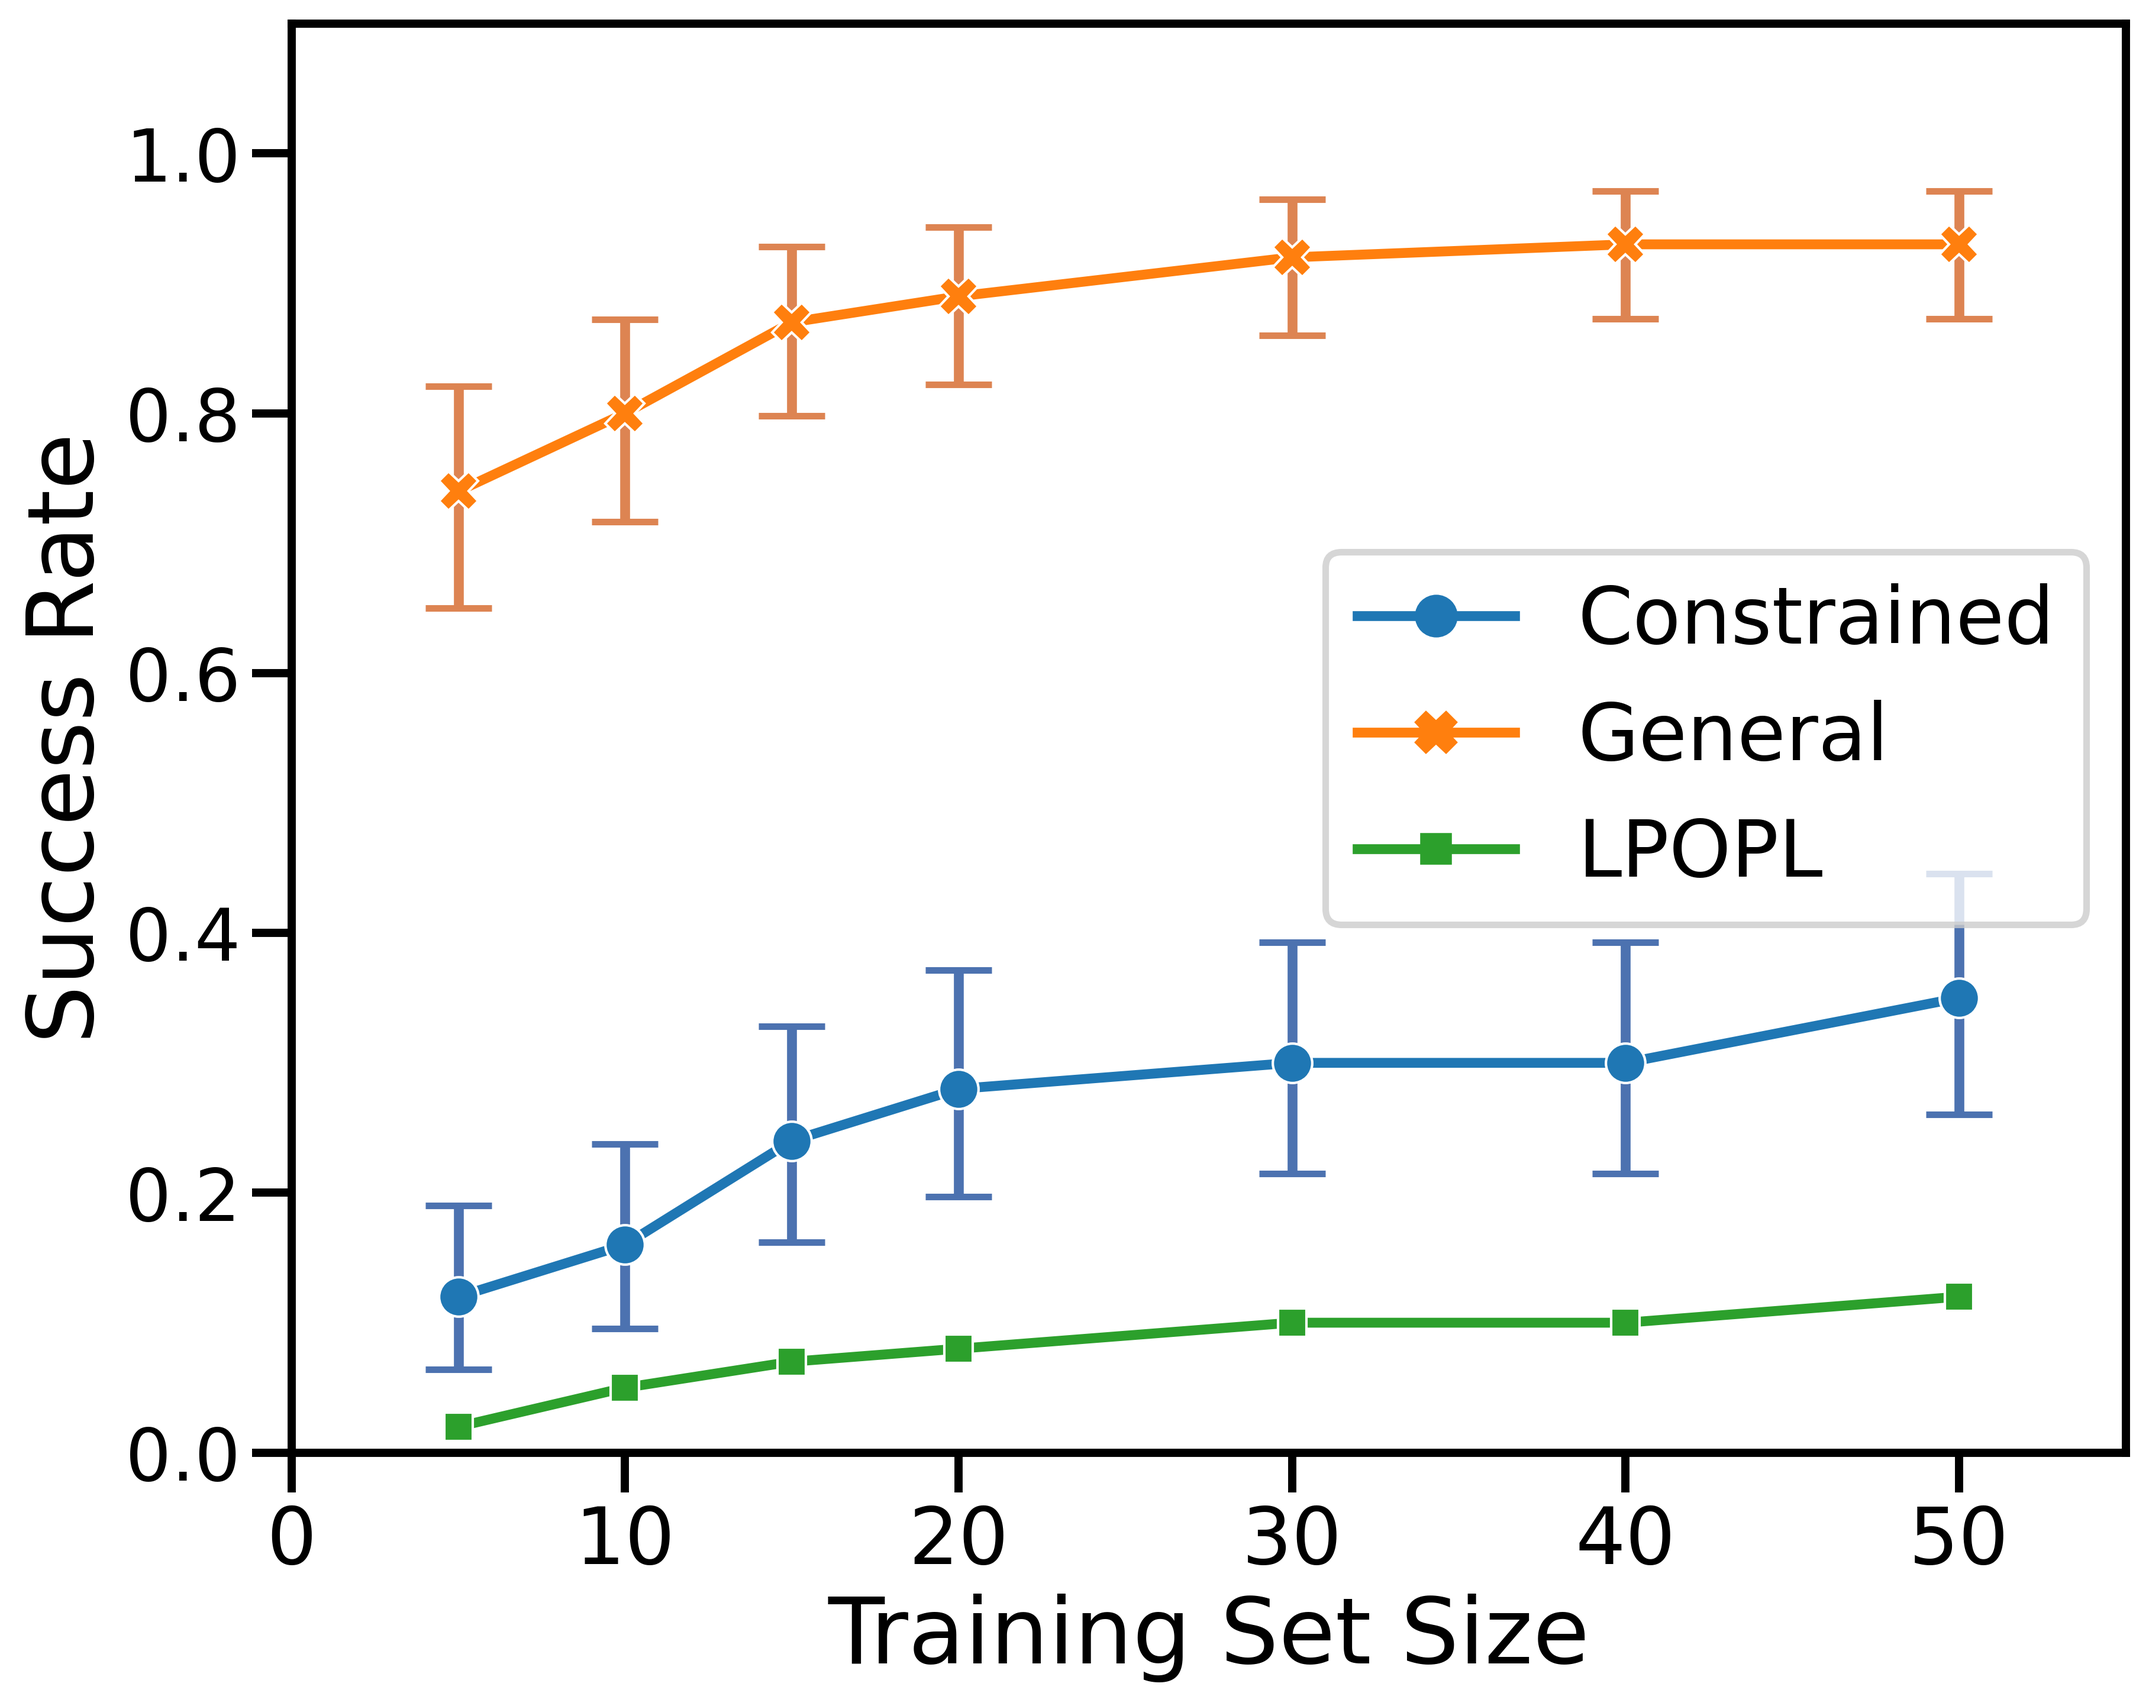
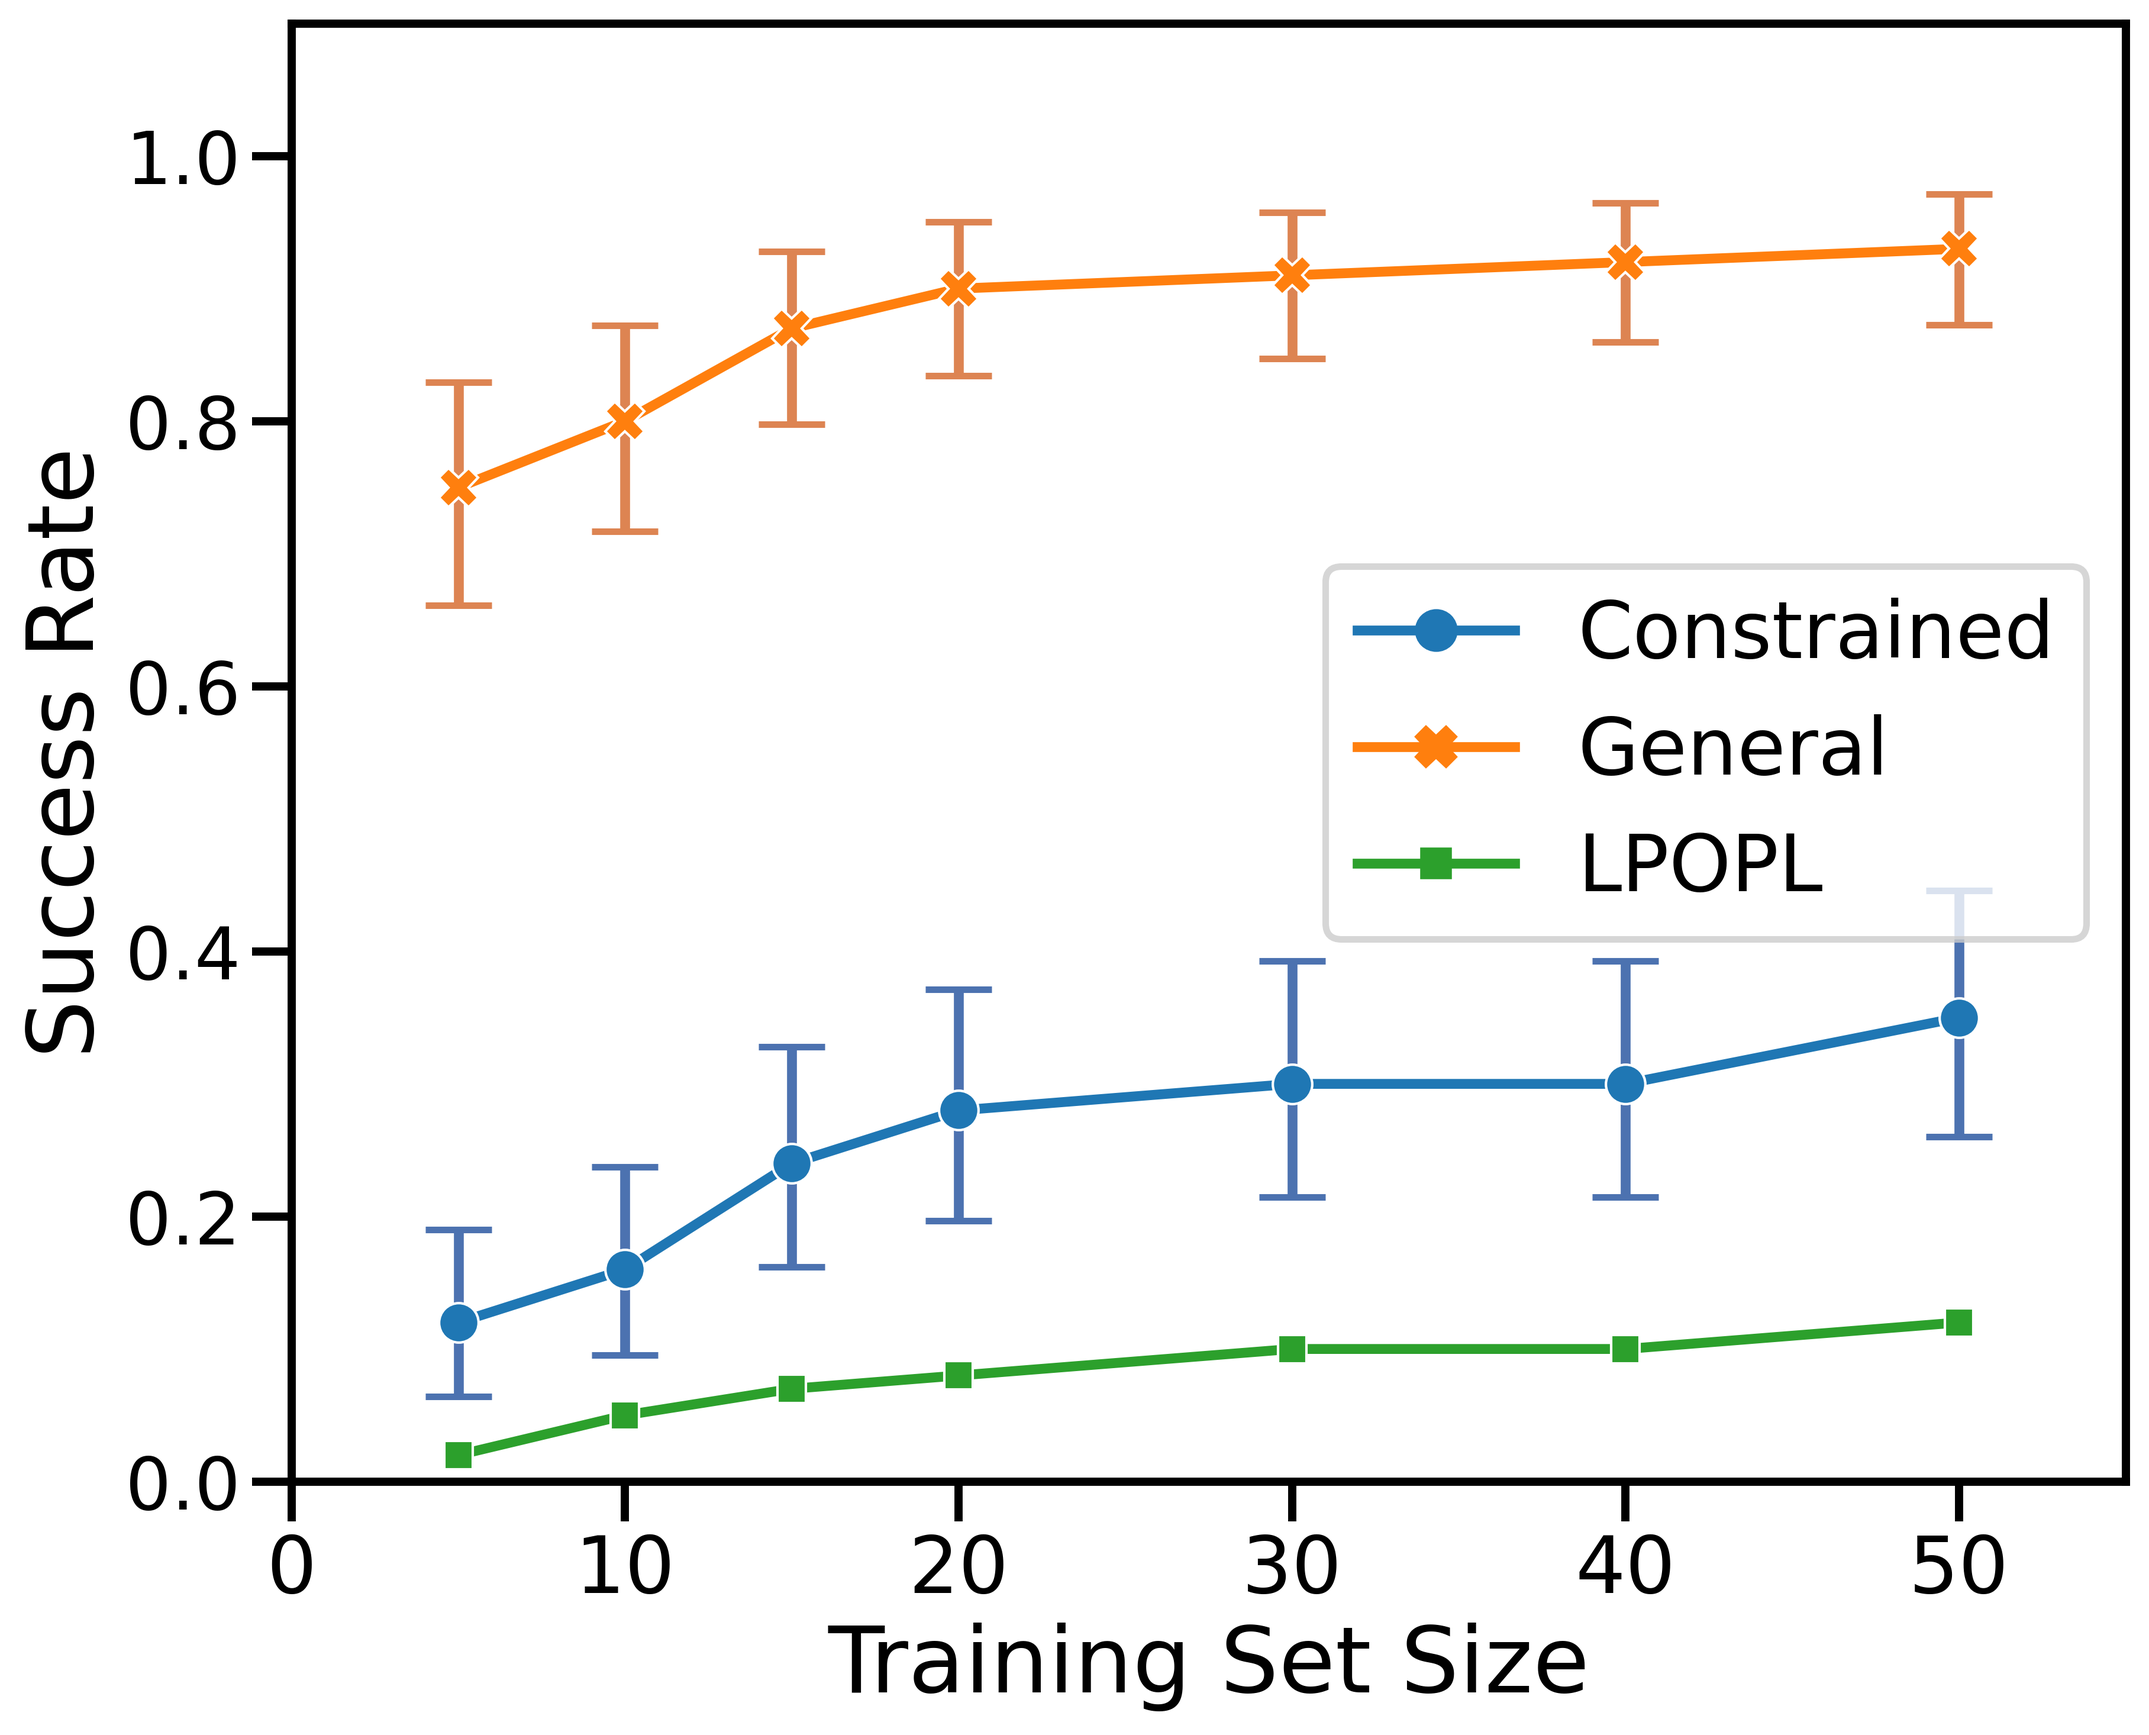
random results analysis

diff --git a/src/random_results_analyzer.py b/src/random_results_analyzer.py
@@ -11,7 +11,7 @@ import pandas as pd
 
 TEST_TYPES = ['hard','soft','soft_strict','no_orders','mixed']
 
-def get_random_results(test_types=TEST_TYPES, num_steps = [500], map_ids = [0,1,5,6]):
+def get_random_results(test_types=TEST_TYPES, num_steps = [500, 1000], map_ids = [0,1,5,6]):
     results = {}
     for test_type in test_types:
         for nsteps in num_steps:
@@ -19,12 +19,12 @@ def get_random_results(test_types=TEST_TYPES, num_steps = [500], map_ids = [0,1,
                 results[(test_type, nsteps, map_id)] = RandomRecord(test_type = test_type, nsteps = nsteps, map_id = map_id)
     return results
 
-def get_mixed_50_results():
-    return get_results(train_types = ['mixed'], test_types = TEST_TYPES, train_sizes=[50], map_ids = [0,1,5,6])
+def get_mixed_50_results(test_types = TEST_TYPES, train_sizes = [50], map_ids = [0,1,5,6]):
+    return get_results(train_types = ['mixed'], test_types = test_types, train_sizes=train_sizes, map_ids = map_ids)
 
-def create_data_table():
-    random_results = get_random_results()
-    mixed_results = get_mixed_50_results()
+def create_data_table(random_results, mixed_results):
+    #random_results = get_random_results()
+    #mixed_results = get_mixed_50_results()
     
     data = {}
     i=0
@@ -35,23 +35,58 @@ def create_data_table():
         entry['Test Type'] = k[0]
         entry['Map ID'] = k[2]
         entry['Success Rate'] = np.mean(random_results[k].success)
+        entry['Path Lengths'] = random_results[k].mean_successful_path_length
+        entry['Specification Violation Rate'] = random_results[k].specification_failure_rate
         data[i] = entry
         i = i+1
     for k in mixed_results:
         entry = {}
-        entry['Transfer Method'] = f'LTL Transfer {k[3]}'
+        edge_match = 'Constrained' if k[3] == 'rigid' else 'Relaxed'
+        entry['Transfer Method'] = f'LTL Transfer {edge_match}'
         entry['Test Type'] = k[2]
         entry['Map ID'] = k[4]
         entry['Success Rate']  = np.mean(mixed_results[k].success)
+        entry['Path Lengths'] = mixed_results[k].mean_successful_path_length
+        entry['Specification Violation Rate'] = 0
         data[i] = entry
         i = i+1
     
     data = pd.DataFrame.from_dict(data, orient = 'index')
     return data        
+
+def plot_random_success_rate():
+    random_results = get_random_results()
+    mixed_results = get_mixed_50_results(map_ids = [0])
+    data = create_data_table(random_results, mixed_results)
+    with sns.plotting_context('poster', rc=rc):
+        plt.figure(figsize = [12,8])
+        sns.barplot(data = data, x = 'Test Type', y = 'Success Rate', hue = 'Transfer Method')
+    plt.savefig('figures/random_success_rate.jpg',dpi=400, bbox_inches='tight')
+
+def plot_path_lengths():
+    random_results = get_random_results()
+    mixed_results = get_mixed_50_results()
+    data = create_data_table(random_results, mixed_results)
+    with sns.plotting_context('poster', rc=rc):
+        plt.figure(figsize = [12,8])
+        sns.barplot(data = data, x = 'Test Type', y = 'Path Lengths', hue = 'Transfer Method')
+        plt.ylim(0,1000)
+    plt.savefig('figures/random_path_lengths.jpg',dpi=400, bbox_inches='tight')
+    
+def plot_spec_failure_rate():
+    random_results = get_random_results(test_types = ['hard','mixed'])
+    mixed_results = get_mixed_50_results(test_types = ['hard','mixed'])
+    data = create_data_table(random_results, mixed_results)
+    with sns.plotting_context('poster', rc=rc):
+        plt.figure(figsize = [12,8])
+        sns.barplot(data = data, x = 'Test Type', y = 'Specification Violation Rate', hue = 'Transfer Method')
+    plt.savefig('figures/random_failure_rate.jpg',dpi=400, bbox_inches='tight')
         
     
     
 
 if __name__ == '__main__':
-    random_results = get_random_results()
-    mixed_results = get_mixed_50_results()
+    #data = create_data_table()
+    plot_random_success_rate()
+    plot_path_lengths()
+    plot_spec_failure_rate()

diff --git a/src/result_analyzer.py b/src/result_analyzer.py
@@ -62,13 +62,25 @@ class Record:
 
     @property
     def specification_failure_rate(self):
-        num_times = np.max([len(r['run2exitcode']) for r in records])
+        num_times = np.max([len(r['run2exitcode']) for r in self.data])
         total = len(self.data)
         spec_fails = 0
         for r in self.data:
-            if type(r['run2exitcodes']) == dict:
-                inc = len([k for k in r['run2exitcodes'] if r['run2exitcodes'][k] == 'specification_fail'])
+            if type(r['run2exitcode']) == dict:
+                inc = len([k for k in r['run2exitcode'] if r['run2exitcode'][k] == 'specification_fail'])
                 spec_fails += inc
+        return spec_fails/(len(self.data)*num_times)
+    
+    @property
+    def mean_successful_path_length(self):
+        pathlengths = []
+        for d in self.data:
+            if type(d['run2exitcode']) == dict:
+                for k in d['run2exitcode']:
+                    if d['run2exitcode'][k] == 0:
+                        flat_traj = [l for sublist in d['run2traj'][k] for l in sublist]
+                        pathlengths.append(len(flat_traj))
+        return np.mean(pathlengths)
 
 class RandomRecord:
 
@@ -121,6 +133,17 @@ class RandomRecord:
                 inc = len([k for k in r['run2exitcode'] if r['run2exitcode'][k] == 'specification_fail'])
                 spec_fails += inc
         return spec_fails/(len(self.data)*num_times)
+    
+    @property
+    def mean_successful_path_length(self):
+        pathlengths = []
+        for d in self.data:
+            if type(d['run2exitcode']) == dict:
+                for k in d['run2exitcode']:
+                    if d['run2exitcode'][k] == 0:
+                        #flat_traj = [l for sublist in d['run2traj'][k] for l in sublist]
+                        pathlengths.append(len(d['run2traj'][k]))
+        return np.mean(pathlengths)
 
 
 def get_results(train_type='hard', edge_matcher='relaxed', test_types=None, map_ids=[0], train_sizes=[50]):
@@ -154,9 +177,9 @@ def get_results(train_types, test_types, train_sizes, map_ids):
         for test_type in test_types:
             for train_size in train_sizes:
                 for map_id in map_ids:
-                    record = Record(train_type, train_size, test_type, 'rigid')
+                    record = Record(train_type, train_size, test_type, 'rigid', map_id=map_id)
                     results[(train_type, train_size, test_type, 'rigid', map_id)] = record
-                    record = Record(train_type, train_size, test_type, 'relaxed')
+                    record = Record(train_type, train_size, test_type, 'relaxed', map_id=map_id)
                     results[(train_type, train_size, test_type, 'relaxed', map_id)] = record
     return results
 
@@ -260,7 +283,7 @@ def plot_fig3A():
     train_types = ['mixed']
     test_types = ['hard', 'soft', 'soft_strict', 'no_orders', 'mixed']
     train_sizes = [5, 10, 15, 20, 30, 40, 50]
-    map_ids = [0]
+    map_ids = [0,1,5,6]
     CI = 0.95
     data = create_data_table(get_results(train_types, test_types, train_sizes, map_ids))
     
@@ -313,7 +336,7 @@ def plot_fig3B():
     train_types = ['mixed']
     test_types = ['hard', 'soft', 'soft_strict', 'no_orders', 'mixed']
     train_sizes = [5, 10, 15, 20, 30, 40, 50]
-    map_ids = [0]
+    map_ids = [0,1,5,6]
     CI = 0.95
     data = create_data_table(get_results(train_types, test_types, train_sizes, map_ids))
     
